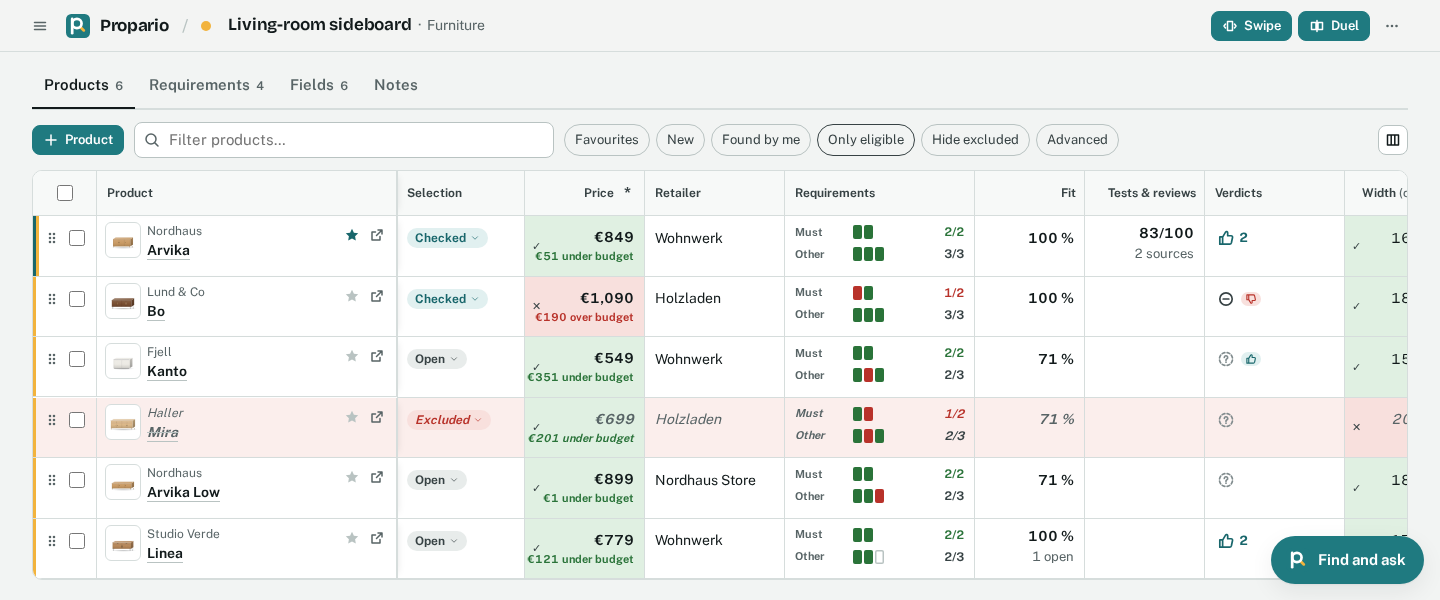
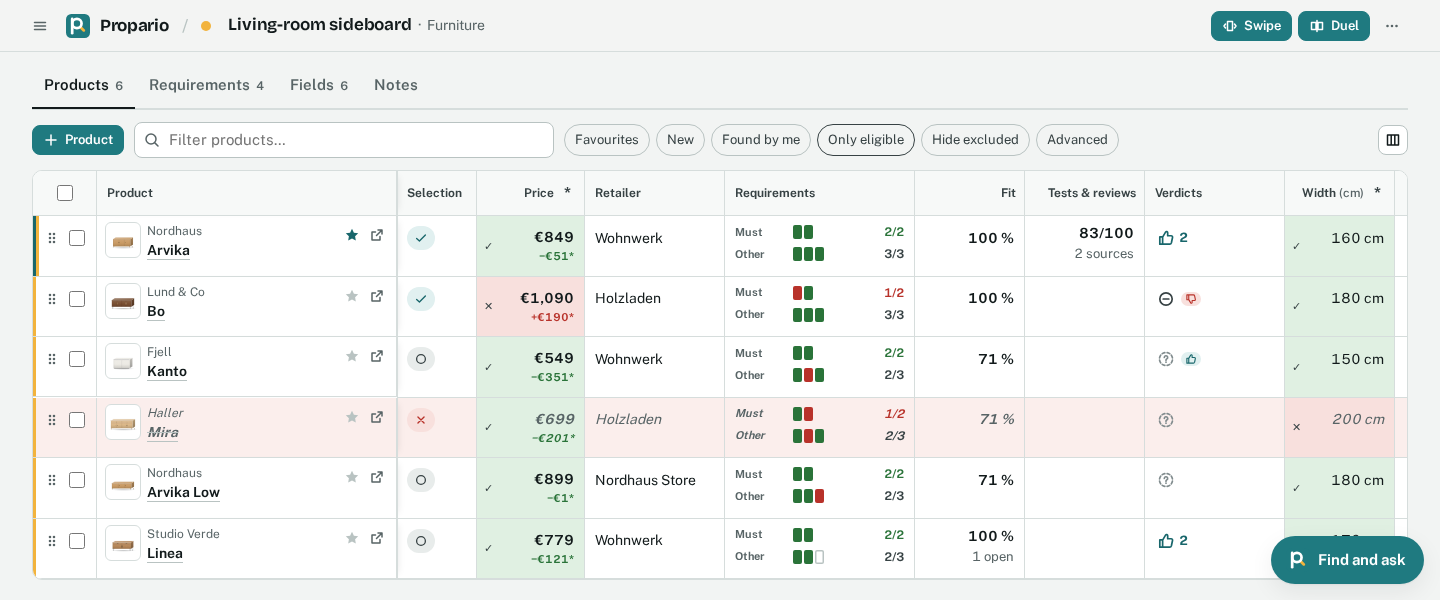
Compact columns: short reference note, selection as a symbol (#20)
## What and why

Seen on a real instance after 0.20.0: the short note under a price
worked for the budget but not for a price reference ("+70 € zur
Referenz"), and rank, selection and price took too much width; the
selection's words ("Geprüft") could be a symbol, like the stage dot.

- **Price reference:** "Ref." on the reference itself, the difference
alone on the others ("+€70"). Tooltip and screen reader keep the
sentence; the reference's name is "Ref. (price reference)" so it
contains the visible text (axe: label-content-name-mismatch).
- **Selection as a symbol:** circle (open), tick (checked), cross
(excluded) on the coloured pill; the menu shows symbol and name; the
trigger's accessible name and tooltip say "Selection: Checked". New
glyph `circle`.
- **Narrower defaults:** rank 64, selection 80 (56 on a phone), price
108. Widths someone has set themselves are kept.
- CHANGELOG under _Unreleased_; table, hero and visual snapshots
renewed.

## Checklist

- [x] `npm run verify` passes (format, types, unit tests, end-to-end
story)
- [x] Changes to who may see or change what have a test in
`server/access.test.ts`: none
- [x] New texts exist in `src/i18n/en.ts` and `src/i18n/de.ts`
- [x] Looked at in a browser at 390 px and desktop width, light and dark
- [x] No personal data, real workbooks, databases or secrets in the diff
- [x] A line under _Unreleased_ in `CHANGELOG.md` if users notice the
change

🤖 Generated with [Claude Code](https://claude.com/claude-code)

---------

diff --git a/src/pages/project/ProductTable.tsx b/src/pages/project/ProductTable.tsx
@@ -15,7 +15,7 @@ import { useI18n, type Formatters } from '../../i18n'
 import type { Messages } from '../../i18n/en'
 import { applyProductPage, productImage, readProductPage } from '../../images'
 import { useConfirm, useToast } from '../../ui/Dialog'
-import { Glyph } from '../../ui/Glyph'
+import { Glyph, type GlyphName } from '../../ui/Glyph'
 import { CheckMark, RequirementBars, Stars } from '../../ui/Marks'
 import { Menu } from '../../ui/Menu'
 import { Thumb } from '../../ui/Thumb'
@@ -41,6 +41,8 @@ interface Col {
 
 /** Colour of the selection: open grey, favourite green, excluded red. */
 const PILL: Record<Status, string> = { open: '', checked: 'checked', excluded: 'excl' }
+/** The selection as a symbol in the table; its name is in the menu, the tooltip and the accessible name. */
+const STATUS_GLYPH: Record<Status, GlyphName> = { open: 'circle', checked: 'check', excluded: 'cross' }
 
 /** Quick filters on when the address names none: only products still in the running. */
 const DEFAULT_CHIPS = 'eligible'
@@ -170,7 +172,7 @@ export function ProductTable({
       {
         id: 'rank',
         label: m.duel.place,
-        width: 72,
+        width: 64,
         align: 'right',
         optional: true,
         has: (p) => placeOf.has(p.id),
@@ -180,7 +182,7 @@ export function ProductTable({
       {
         id: 'candidate',
         label: m.field.candidate,
-        width: 128,
+        width: 80,
         sort: (p) => ({ checked: 0, open: 1, excluded: 2 })[statusOf(p)],
         render: (p) => (
           <Menu
@@ -189,9 +191,8 @@ export function ProductTable({
             className="cell candidate-trigger"
             listClassName="candidate-menu"
             trigger={
-              <span className={`pill ${PILL[statusOf(p)]}`}>
-                {m.candidate[statusOf(p)]}
-                <Glyph name="down" />
+              <span className={`pill icon ${PILL[statusOf(p)]}`}>
+                <Glyph name={STATUS_GLYPH[statusOf(p)]} />
               </span>
             }
           >
@@ -206,7 +207,9 @@ export function ProductTable({
                     if (c !== statusOf(p)) void updateProduct(p, statusPatch(p, c))
                   }}
                 >
-                  <span className={`pill ${PILL[c]}`}>{m.candidate[c]}</span>
+                  <span className={`pill ${PILL[c]}`}>
+                    <Glyph name={STATUS_GLYPH[c]} /> {m.candidate[c]}
+                  </span>
                 </button>
               ))
             }
@@ -216,7 +219,7 @@ export function ProductTable({
       {
         id: 'price',
         label: m.field.price,
-        width: 120,
+        width: 108,
         align: 'right',
         sort: (p) => p.price,
         render: (p) => {
@@ -974,17 +977,18 @@ export function ProductTable({
 
 /**
  * The note under a price (against the reference product, the budget or the cheapest) and its tone.
- * Against the budget it is short: the difference with the column's rule mark, "−€500.01*"; the
- * sentence is its tooltip and what a screen reader says.
+ * It is short: against the budget the difference with the column's rule mark ("−€500.01*"), against
+ * the price reference the difference alone ("+€70"), the reference itself "Ref.". The sentence is
+ * its tooltip and what a screen reader says.
  */
 function priceNote(hint: PriceHint, m: Messages, fmt: Formatters): { text: string; short?: string; tone: '' | 'best' | 'over' | 'ref' } | null {
   if (!hint) return null
   const signed = (d: number) => (d > 0 ? `+${fmt.money(d)}` : d < 0 ? `−${fmt.money(-d)}` : '±0')
   switch (hint.kind) {
     case 'reference':
-      return { text: m.priceRef.reference, tone: 'ref' }
+      return { text: `${m.priceRef.short} (${m.priceRef.reference})`, short: m.priceRef.short, tone: 'ref' }
     case 'vsReference':
-      return { text: m.priceRef.vs(signed(hint.diff)), tone: hint.diff < 0 ? 'best' : hint.diff > 0 ? 'over' : '' }
+      return { text: m.priceRef.vs(signed(hint.diff)), short: signed(hint.diff), tone: hint.diff < 0 ? 'best' : hint.diff > 0 ? 'over' : '' }
     case 'underBudget':
       return { text: m.budget.under(fmt.money(hint.diff)), short: `${signed(-hint.diff)}*`, tone: 'best' }
     case 'atBudget':

diff --git a/server/data-key.test.ts b/server/data-key.test.ts
@@ -1,0 +1,76 @@
+// @vitest-environment node
+import { mkdtempSync, readFileSync, statSync } from 'node:fs'
+import { tmpdir } from 'node:os'
+import { join } from 'node:path'
+import { afterEach, describe, expect, it } from 'vitest'
+import { openDatabase } from './db.ts'
+import { parseKey, useKey } from './crypto.ts'
+import { devDataKey } from './env.ts'
+import { applyChanges, keyProblem } from './store.ts'
+import { createUser } from './users.ts'
+import { makeProject } from '../src/db/factories.ts'
+import { newId } from '../src/shared/ids.ts'
+
+const KEY = Buffer.alloc(32, 7).toString('base64')
+const OTHER = Buffer.alloc(32, 9).toString('base64')
+
+/** A database with one comparison written under `key` (null: without encryption). */
+function written(key: string | null) {
+  useKey(key)
+  const db = openDatabase(':memory:')
+  const ada = newId()
+  createUser(db, { id: ada, name: 'Ada', isAdmin: true })
+  applyChanges(db, ada, [{ op: 'create', kind: 'projects', record: makeProject({ name: 'Cabinet' }) }])
+  return db
+}
+
+afterEach(() => useKey(null))
+
+describe('the server checks DATA_KEY against the stored data at start', () => {
+  it('starts with the key the data was written with, and with nothing stored yet', () => {
+    expect(keyProblem(written(KEY), './data', true)).toBeNull()
+    useKey(OTHER)
+    expect(keyProblem(openDatabase(':memory:'), './data', true)).toBeNull()
+  })
+
+  it('starts with or without a key when nothing is encrypted', () => {
+    const db = written(null)
+    useKey(OTHER)
+    expect(keyProblem(db, './data', true)).toBeNull()
+  })
+
+  it('refuses another key, and says what to do', () => {
+    const db = written(KEY)
+    useKey(OTHER)
+    const problem = keyProblem(db, './data', true)
+    expect(problem).toMatch(/DATA_KEY does not match the data in \.\/data/)
+    expect(problem).toMatch(/only suits an empty data folder/)
+    expect(problem).not.toMatch(/development/)
+  })
+
+  it('refuses a missing key for encrypted data; in development it says no key is needed', () => {
+    const db = written(KEY)
+    useKey(null)
+    const problem = keyProblem(db, './data', false)
+    expect(problem).toMatch(/is encrypted, but DATA_KEY is not set/)
+    expect(problem).toMatch(/npm run dev without DATA_KEY uses the key in \.dev-data-key/)
+  })
+})
+
+describe('npm run dev encrypts by default', () => {
+  it('makes a key once, keeps it for you alone, and uses it on every start', () => {
+    const file = join(mkdtempSync(join(tmpdir(), 'propario-key-')), '.dev-data-key')
+    const first = devDataKey(undefined, file)
+    expect(parseKey(first.key!)).toHaveLength(32)
+    expect(statSync(file).mode & 0o777).toBe(0o600)
+    expect(first.note).toMatch(/new key/)
+    expect(devDataKey(undefined, file).key).toBe(first.key)
+    expect(readFileSync(file, 'utf8').trim()).toBe(first.key)
+  })
+
+  it('takes DATA_KEY when it is set, and then makes no key of its own', () => {
+    const file = join(mkdtempSync(join(tmpdir(), 'propario-key-')), '.dev-data-key')
+    expect(devDataKey(KEY, file).key).toBe(KEY)
+    expect(() => readFileSync(file)).toThrow()
+  })
+})

diff --git a/server/store.ts b/server/store.ts
@@ -1,5 +1,5 @@
 import { tx, type DB } from './db.ts'
-import { open, openBytes, seal, sealBytes } from './crypto.ts'
+import { hasKey, open, openBytes, seal, sealBytes } from './crypto.ts'
 import { newId, nowIso } from '../src/shared/ids.ts'
 import { applyPatch, checkChange, IMAGE_PATH, KINDS, PERSONAL, type AnyRecord, type Change, type Kind } from '../src/shared/records.ts'
 
@@ -59,6 +59,29 @@ export function accessibleProjects(db: DB, userId: string): { id: string; role: 
 // ---------- records ----------
 
 const aad = (kind: Kind, id: string) => `record:${kind}:${id}`
+
+/**
+ * Whether DATA_KEY opens what is already stored: one encrypted record tells. Null when it does
+ * (or nothing is encrypted yet); otherwise what is wrong and what to do, for the start of the
+ * server. Without this, a wrong key only shows later as every change and picture refused.
+ */
+export function keyProblem(db: DB, dataDir: string, production: boolean): string | null {
+  const row = db.prepare("SELECT kind, id, data FROM records WHERE data LIKE 'v1.%' LIMIT 1").get() as { kind: Kind; id: string; data: string } | undefined
+  if (!row) return null
+  try {
+    open(aad(row.kind, row.id), row.data)
+    return null
+  } catch {
+    const what = hasKey()
+      ? `DATA_KEY does not match the data in ${dataDir}: it was encrypted with another key, so nothing in it can be read or changed.`
+      : `The data in ${dataDir} is encrypted, but DATA_KEY is not set.`
+    const fix = 'Start again with the DATA_KEY the data was written with. A new key, e.g. from openssl rand, only suits an empty data folder.'
+    const dev = production
+      ? ''
+      : ` For development: npm run dev without DATA_KEY uses the key in .dev-data-key, and moving ${dataDir} aside begins with an empty one.`
+    return `${what} ${fix}${dev}`
+  }
+}
 
 function nextSeq(db: DB): number {
   return (db.prepare('UPDATE counter SET seq = seq + 1 WHERE id = 1 RETURNING seq').get() as { seq: number }).seq

diff --git a/vite.config.ts b/vite.config.ts
@@ -46,13 +46,26 @@ function api(): Plugin {
     apply: 'serve',
     async configureServer(server) {
       if (process.env.VITEST) return
-      const [{ createApp }, { openDatabase }, { loadConfig }] = await Promise.all([
+      // Encrypted as in production (server/env.ts).
+      const { devDataKey } = await import('./server/env.ts')
+      const dev = devDataKey(process.env.DATA_KEY, '.dev-data-key')
+      process.env.DATA_KEY = dev.key
+      const [{ createApp }, { openDatabase }, { loadConfig }, { keyProblem }] = await Promise.all([
         import('./server/app.ts'),
         import('./server/db.ts'),
         import('./server/env.ts'),
+        import('./server/store.ts'),
       ])
       const config = loadConfig({ ...process.env, NODE_ENV: 'development', PORT: String(server.config.server.port ?? 5173) })
-      const app = createApp(openDatabase(join(config.dataDir, 'propario.db')), config)
+      const db = openDatabase(join(config.dataDir, 'propario.db'))
+      // A key that does not open ./data stops the start here, with what to do.
+      const problem = keyProblem(db, config.dataDir, false)
+      if (problem) {
+        console.error(`\n  ${problem}\n`)
+        process.exit(1)
+      }
+      const app = createApp(db, config)
+      server.httpServer?.once('listening', () => setTimeout(() => console.log(`\n  ${dev.note}`), 50))
       server.middlewares.use((req, res, next) => app.handle(req, res, next))
       server.httpServer?.once('listening', () => {
         const link = app.setupLink()

diff --git a/server/env.ts b/server/env.ts
@@ -1,3 +1,5 @@
+import { randomBytes } from 'node:crypto'
+import { existsSync, readFileSync, writeFileSync } from 'node:fs'
 /** Configuration from environment variables. The table is in docs/self-hosting.md. */
 export interface Config {
   /** Public address, e.g. https://propario.example.org. Passkeys are bound to it. */
@@ -36,4 +38,18 @@ export function loadConfig(env: NodeJS.ProcessEnv = process.env): Config {
     addressHeader: (env.ADDRESS_HEADER || '').toLowerCase(),
     xffDepth: Math.max(1, Number(env.XFF_DEPTH || 1)),
   }
+}
+
+/**
+ * The key `npm run dev` encrypts with, so development stores data as production does: DATA_KEY
+ * when it is set (e.g. production's key, to open its data), otherwise the key in `file`
+ * (git-ignored, outside the data folder), made once on the first start. There is no unencrypted
+ * mode.
+ */
+export function devDataKey(value: string | undefined, file: string): { key: string; note: string } {
+  if (value) return { key: value, note: 'Development data is encrypted with DATA_KEY.' }
+  if (existsSync(file)) return { key: readFileSync(file, 'utf8').trim(), note: `Development data is encrypted with the key in ${file}.` }
+  const key = randomBytes(32).toString('base64')
+  writeFileSync(file, key + '\n', { mode: 0o600, flag: 'wx' })
+  return { key, note: `Development data is encrypted with a new key, kept in ${file}. Keep it: without it the data folder cannot be read.` }
 }

diff --git a/server/main.ts b/server/main.ts
@@ -12,12 +12,17 @@ import zlib from 'node:zlib'
 import { createApp } from './app.ts'
 import { openDatabase } from './db.ts'
 import { loadConfig } from './env.ts'
-import { collectGarbage } from './store.ts'
+import { collectGarbage, keyProblem } from './store.ts'
 import { purgeExpired } from './users.ts'
 
 const config = loadConfig()
 const ROOT = resolve(process.env.PROPARIO_DIST || join(fileURLToPath(new URL('.', import.meta.url)), '..', 'dist'))
 const db = openDatabase(join(config.dataDir, 'propario.db'))
+const problem = keyProblem(db, config.dataDir, config.production)
+if (problem) {
+  console.error(`\n  ${problem}\n`)
+  process.exit(1)
+}
 /** The build's version (written by `vite build`), e.g. 0.2.0+4d837a1. */
 const version = await readFile(join(ROOT, 'version.json'), 'utf8')
   .then((t) => (JSON.parse(t) as { version: string }).version)

diff --git a/src/styles/app.css b/src/styles/app.css
@@ -597,6 +597,13 @@ svg.glyph {
   background: var(--fail-soft);
   color: var(--fail);
 }
+/* Only the symbol, in the table: a round mark the size of a touch-friendly dot. */
+.pill.icon {
+  justify-content: center;
+  width: 28px;
+  height: 24px;
+  padding: 0;
+}
 .pill.pass {
   background: var(--pass-soft);
   color: var(--pass);
@@ -3253,6 +3260,11 @@ main.project-page {
   height: 10px;
   opacity: 0.7;
 }
+.candidate-trigger .pill.icon svg {
+  width: 14px;
+  height: 14px;
+  opacity: 1;
+}
 .menu-list.candidate-menu {
   min-width: 150px;
 }
@@ -3348,7 +3360,7 @@ main.project-page {
     text-align: left;
   }
   .grid col[data-col='candidate'] {
-    width: 96px !important;
+    width: 56px !important;
   }
   /* The table runs from edge to edge: the page's margins are room for data. */
   .project-page .table-wrap {

diff --git a/server/crypto.ts b/server/crypto.ts
@@ -9,8 +9,9 @@ import { createCipheriv, createDecipheriv, createHash, randomBytes, timingSafeEq
  * bytes in base64) lives outside the data directory: a copied database file or backup alone
  * reveals nothing but ids, roles and timestamps. Values are stored as `v1.<base64url>`.
  *
- * Without a key (development, tests) values are stored as they are; the server refuses to start
- * without one in production (env.ts). Secrets (sessions, invites, recovery keys) are only ever
+ * Production refuses to start without a key, and `npm run dev` makes and keeps its own (env.ts):
+ * there is no unencrypted mode. Only unit tests run without a key (useKey(null)); values written
+ * without one, by an old version, are still read. Secrets (sessions, invites, recovery keys) are only ever
  * stored as SHA-256 hashes.
  */
 

diff --git a/e2e/journey.spec.ts b/e2e/journey.spec.ts
@@ -607,7 +607,8 @@ test('Ada keeps a comparison with a product and its picture', async () => {
   await page.locator('dialog.drawer').getByRole('button', { name: 'More' }).click()
   await page.getByRole('button', { name: 'Use as price reference' }).click()
   await page.locator('dialog.drawer').getByRole('button', { name: 'Close' }).click()
-  await expect(page.locator('.price-cell').getByText('price reference')).toBeVisible()
+  // Short under the price: the reference itself is "Ref.", its sentence the tooltip.
+  await expect(page.locator('.price-cell').getByTitle('Ref. (price reference)')).toHaveText('Ref.')
   await accessible(page, 'comparison with rules')
 
   // Quick filters toggle; the advanced query filters by any field and says what went wrong.

diff --git a/src/ui/Glyph.tsx b/src/ui/Glyph.tsx
@@ -18,6 +18,7 @@ const paths = {
   download: 'M8 2.5v8M4.5 7L8 10.5 11.5 7M3 13.5h10',
   upload: 'M8 10.5v-8M4.5 6L8 2.5 11.5 6M3 13.5h10',
   check: 'M3 8.5l3.2 3L13 4.5',
+  circle: 'M8 13A5 5 0 1 0 8 3a5 5 0 0 0 0 10z',
   cross: 'M4.5 4.5l7 7M11.5 4.5l-7 7',
   archive: 'M2.5 3.5h11v3h-11zM3.5 6.5v6h9v-6M6.5 9h3',
   edit: 'M10.5 3l2.5 2.5L6 12.5H3.5V10z',

diff --git a/src/i18n/de.ts b/src/i18n/de.ts
@@ -352,6 +352,7 @@ export const de: Messages = {
   },
   priceRef: {
     reference: 'Preisreferenz',
+    short: 'Ref.',
     vs: (signed) => `${signed} zur Referenz`,
     set: 'Als Preisreferenz verwenden',
     unset: 'Preisreferenz – aufheben',

diff --git a/src/i18n/en.ts b/src/i18n/en.ts
@@ -349,6 +349,7 @@ export const en = {
   },
   priceRef: {
     reference: 'price reference',
+    short: 'Ref.',
     vs: (signed: string) => `${signed} to reference`,
     set: 'Use as price reference',
     unset: 'Price reference – remove',
